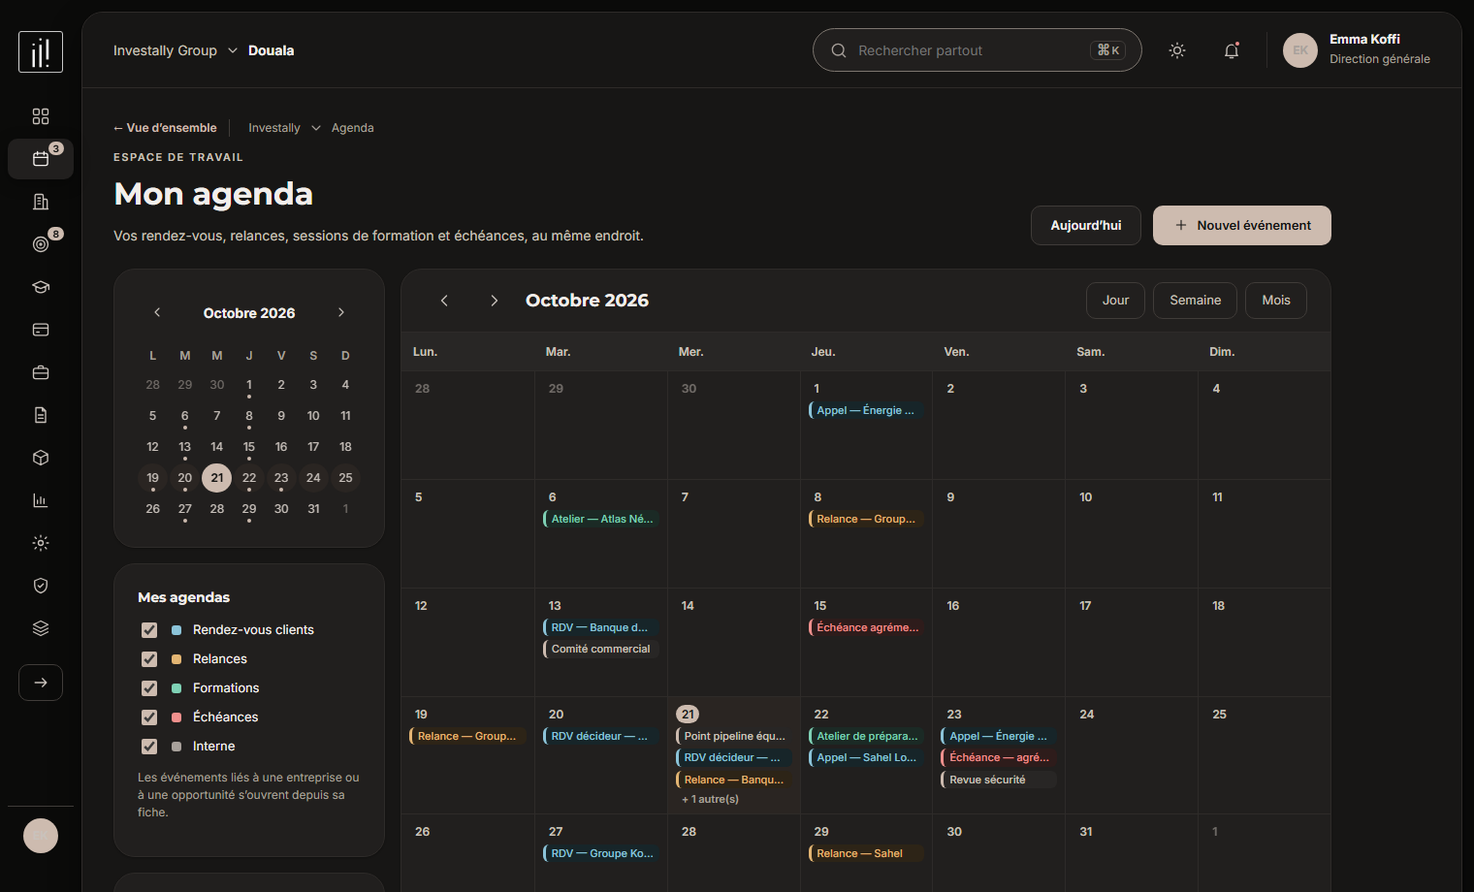
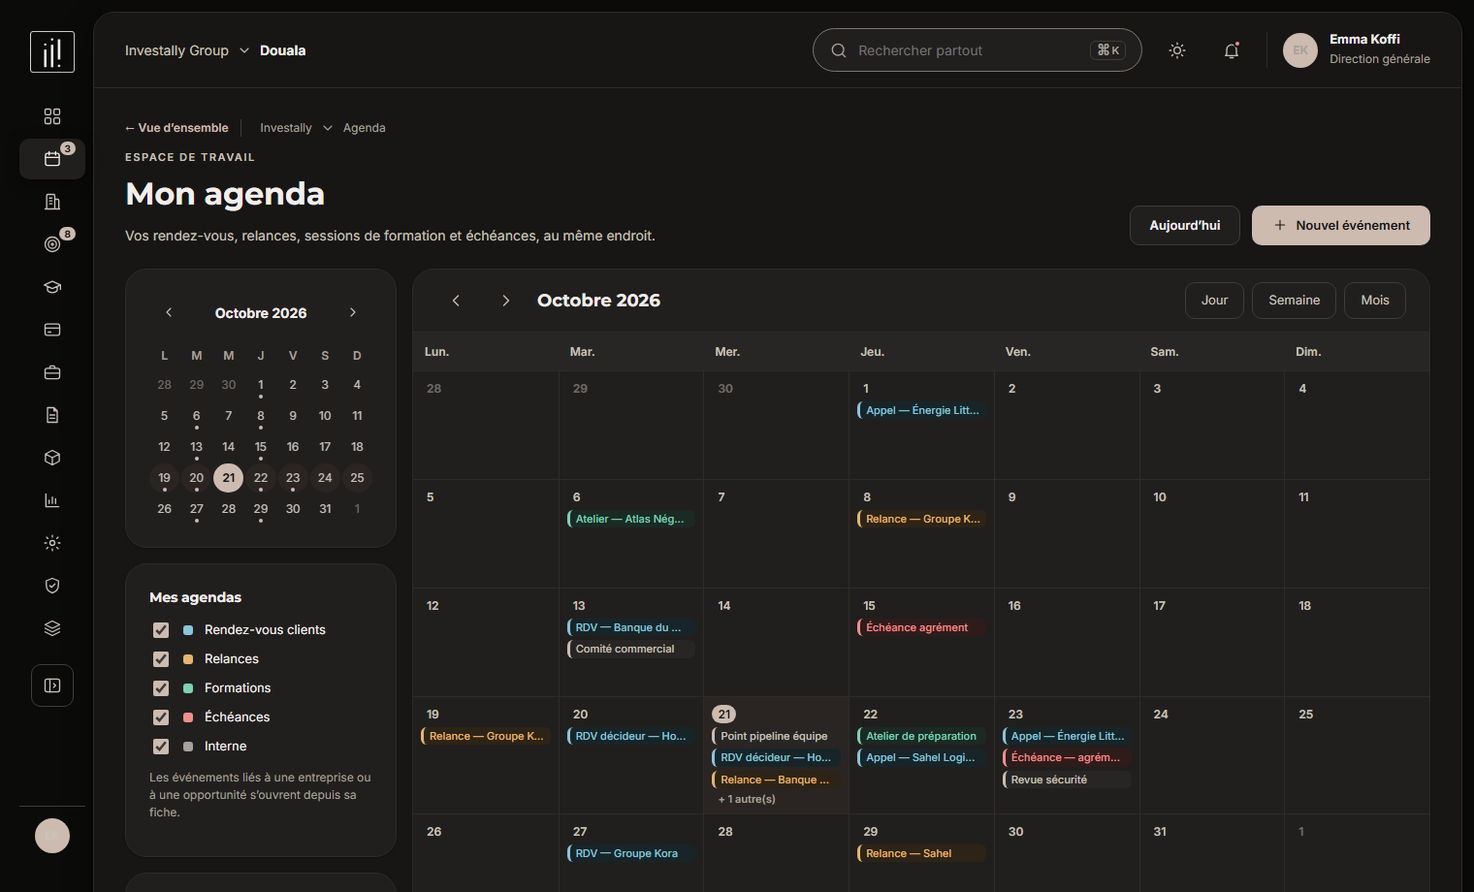
design v0.4.1: panneau principal centré (DEC-007 option B), bouton de dépliage en pictogramme
EXD-10, EXD-11, DDR-0007 ; captures regénérées ; version 0.4.1 en revue.

diff --git a/docs/design/prototype/prototype.css b/docs/design/prototype/prototype.css
@@ -16,7 +16,13 @@ button, input, select { font: inherit; color: inherit; }
 .icon.sm { width: 16px; height: 16px; }
 
 /* ---------- Coque applicative ---------- */
-.app { display: grid; grid-template-columns: 272px minmax(0, 1fr); min-height: 100vh; padding: 12px 12px 12px 0; background: var(--canvas); }
+.app { --nav-w: 272px; --panel-max: 1440px; display: grid; min-height: 100vh; padding: 12px; background: var(--canvas);
+  /* DEC-007 (option B) : le panneau principal est centré sur la fenêtre ; la navigation vit dans la marge de gauche.
+     Marge gauche >= largeur de la navigation, marge droite libre : si la fenêtre est trop étroite, la marge droite
+     tombe à 0 et le panneau se centre dans l'espace restant (repli automatique, sans requête média). */
+  grid-template-columns: minmax(var(--nav-w), 1fr) minmax(0, var(--panel-max)) minmax(0, 1fr); }
+.app > .sidebar { grid-column: 1; justify-self: start; width: var(--nav-w); }
+.app > .main { grid-column: 2; }
 .sidebar {
   background: transparent; padding: var(--s-4) var(--s-4) var(--s-4) var(--s-5); display: flex; flex-direction: column; gap: var(--s-2);
   position: sticky; top: 12px; height: calc(100vh - 24px); overflow-y: auto;
@@ -74,7 +80,7 @@ kbd { font: 600 0.6875rem var(--font-ui); border: 1px solid var(--line-strong); 
 .user-chip span { font-size: var(--text-xs); color: var(--muted); }
 .menu-btn { display: none; }
 
-.page { padding: var(--s-8); max-width: 1320px; }
+.page { padding: var(--s-8); }
 .crumbs { display: flex; gap: var(--s-2); color: var(--muted); font-size: var(--text-xs); align-items: center; }
 .eyebrow { font: 600 0.6875rem/1 var(--font-ui); letter-spacing: 0.14em; text-transform: uppercase; color: var(--ink-2); margin: var(--s-4) 0 var(--s-2); }
 .page-head { display: flex; align-items: flex-end; gap: var(--s-6); flex-wrap: wrap; margin-bottom: var(--s-6); }
@@ -251,6 +257,7 @@ body:not([data-view='login']) .auth { display: none; }
 }
 @media (max-width: 900px) {
   .app { grid-template-columns: minmax(0, 1fr); }
+  .app > .main { grid-column: 1; }
   .sidebar { position: fixed; inset: 0 auto 0 0; width: 280px; z-index: 20; transform: translateX(-100%); transition: transform var(--base) var(--ease); box-shadow: var(--shadow-3); }
   .sidebar.open { transform: none; }
   .menu-btn { display: grid; }
@@ -304,16 +311,16 @@ tbody tr { cursor: pointer; }
 /* ---------- DEC-002 : navigation B+ (hub complet, rail compact ailleurs, bouton Déplier) ---------- */
 .logo-mini { display: none; }
 .rail-toggle { display: none; }
-.rail-toggle { align-items: center; gap: var(--s-3); background: transparent; border: 1px solid var(--line-strong); border-radius: var(--radius-sm); color: var(--ink-2); padding: 8px var(--s-3); cursor: pointer; font-weight: 500; margin-top: var(--s-2); }
+.rail-toggle { align-items: center; justify-content: center; width: 44px; height: 44px; background: transparent; border: 1px solid var(--line-strong); border-radius: var(--radius-sm); color: var(--ink-2); padding: 0; cursor: pointer; margin-top: var(--s-2); }
+.rail-toggle .lbl { position: absolute; width: 1px; height: 1px; overflow: hidden; clip: rect(0 0 0 0); white-space: nowrap; }
 .rail-toggle:hover { background: var(--surface); color: var(--ink); }
 .rail-toggle[hidden] { display: none !important; }
 body[data-nav='full'] .rail-toggle:not([hidden]) { display: flex; }
 body[data-nav='rail'] .rail-toggle:not([hidden]) { display: flex; justify-content: center; }
-body[data-nav='full'] #railIcon { transform: rotate(180deg); }
 .crumbs .back { color: var(--brand-strong); text-decoration: none; font-weight: 600; margin-right: var(--s-3); padding-right: var(--s-3); border-right: 1px solid var(--line-strong); }
 .crumbs .back:hover { text-decoration: underline; }
 @media (min-width: 901px) {
-  body[data-nav='rail'] .app { grid-template-columns: 84px minmax(0, 1fr); }
+  body[data-nav='rail'] .app { --nav-w: 84px; }
   body[data-nav='rail'] .sidebar { padding: var(--s-4) var(--s-2); align-items: center; overflow: visible; }
   body[data-nav='rail'] .logo-full, body[data-nav='rail'] .nav-label { display: none; }
   body[data-nav='rail'] .logo-mini { display: block; }

diff --git a/docs/design/exigences/REGISTRE-EXD.html b/docs/design/exigences/REGISTRE-EXD.html
@@ -35,6 +35,8 @@ nav.top{font-size:.9rem;color:var(--muted);margin-bottom:1rem}
 <tr><td><strong>EXD-07</strong></td><td><strong>Module Stocks</strong> : articles, catégories, fournisseurs, entrées, sorties, inventaire, seuils d'alerte, historique, mouvements, consommations internes ; tableau de bord (stock total, ruptures, articles critiques, derniers mouvements)</td><td>📐</td><td><strong>Rattachement décidé : module autonome hébergé dans le monolithe du CRM, conçu pour être extrait</strong> (DEC-004, ADR-0007). Entrée « Stocks » dans le menu (à venir) ; 11 écrans listés dans l'analyse d'impact §4.2, à construire en dernier (DEC-005)</td></tr>
 <tr><td><strong>EXD-08</strong></td><td><strong>Module Reporting</strong> : rapports journaliers, hebdomadaires, mensuels, trimestriels, annuels ; <strong>gestion des incidents</strong> (déclaration, suivi, résolution, attribution) ; <strong>rapports des employés</strong> (activités, comptes rendus, suivi des actions, remontée de problèmes, suivi des performances)</td><td>📐</td><td>12 écrans (analyse d'impact §4.3), après S4 (<strong>incidents d'abord</strong>). <strong>Contrainte décidée (DEC-006)</strong> : le <strong>suivi des performances</strong> ne se construit <strong>qu'après avis juridique et RH</strong>, avec transparence pour l'employé. Entrée « Reporting » dans le menu (à venir)</td></tr>
 <tr><td><strong>EXD-09</strong></td><td><strong>Cohérence métier</strong> : toute modification reste cohérente avec Business Development, Training Management, Finance, RH, Fiscalité, Administration, Sécurité, Reporting</td><td>✅ (principe)</td><td>Architecture des modules mise à jour : analyse d'impact §7</td></tr>
+<tr><td><strong>EXD-10</strong></td><td><strong>Panneau principal centré à tout moment</strong> (demande du 2026-10-21)</td><td>✅</td><td>Option B (DEC-007, DDR-0007) : centré sur la fenêtre, panneau 1 440 px au plus, repli automatique en centrage dans l'espace restant sur fenêtre étroite. Mesuré à 2 200, 1 700 et 1 360 px</td></tr>
+<tr><td><strong>EXD-11</strong></td><td><strong>Bouton de dépliage = pictogramme de l'action, toujours actionnable</strong> (demande du 2026-10-21)</td><td>🟡</td><td>Pictogramme seul 44 px, nom accessible, état annoncé ; <strong>pictogramme provisoire, à confirmer</strong> ; reste masqué sur le hub (navigation complète) — à confirmer</td></tr>
 </tbody></table></div>
 <h2>Règles d'application</h2>
 <ol><li>Une nouvelle maquette ou une nouvelle version <strong>commence</strong> par relire ce registre.</li><li>Toute exigence appliquée est consignée ici avec sa date et sa preuve (capture, écran).</li><li>Si une exigence entre en conflit avec l'accessibilité, la sécurité ou l'architecture, <strong>je le signale avant d'appliquer</strong> (c'est le cas d'EXD-05 et de la partie « suivi des performances » d'EXD-08).</li><li>Une exigence ne disparaît jamais : si elle change, une ligne « remplacée par » est ajoutée.</li></ol>
@@ -42,4 +44,5 @@ nav.top{font-size:.9rem;color:var(--muted);margin-bottom:1rem}
 <div class="table-wrap"><table><thead><tr><th>Date</th><th>Événement</th></tr></thead><tbody>
 <tr><td>2026-10-21</td><td>Enregistrement d'EXD-01 à EXD-09. EXD-01 à EXD-04 appliquées au prototype ; EXD-05 à EXD-08 spécifiées dans l'analyse d'impact</td></tr>
 <tr><td>2026-10-21</td><td>Décisions recommandées appliquées (DEC-001 à 006) : EXD-05 ✅ (B+), EXD-04 hybride ✅, EXD-07 rattachement décidé, EXD-08 contrainte juridique actée ; prototype v0.4.0</td></tr>
+<tr><td>2026-10-21</td><td>EXD-10 et EXD-11 enregistrées. EXD-10 appliquée (option B, DEC-007) ; EXD-11 appliquée à titre provisoire (v0.4.1). <strong>Règle permanente</strong> : le document de design est mis à jour à chaque évolution</td></tr>
 </tbody></table></div></main></body></html>

diff --git a/docs/design/CHANGELOG-DESIGN.html b/docs/design/CHANGELOG-DESIGN.html
@@ -23,6 +23,8 @@ nav.top{font-size:.9rem;color:var(--muted);margin-bottom:1rem}
 @media print{main{max-width:none;padding:0}a{color:inherit}h2{break-after:avoid}table,pre{break-inside:avoid}}
 </style></head><body><main><nav class="top">Investally Business Platform — design · <a href="README.html">Mode d&#8217;emploi</a> · <a href="01-DESIGN-SYSTEM.html">Design system</a> · <a href="02-SPECIFICATIONS-FRONTEND.html">Spécifications frontend</a> · <a href="exigences/REGISTRE-EXD.html">Exigences</a> · <a href="04-ANALYSE-D-IMPACT.html">Analyse d&#8217;impact</a> · <a href="05-AIDE-A-LA-DECISION.html">Aide à la décision</a> · <a href="decisions/REGISTRE-DDR.html">Décisions (DDR)</a> · <a href="CHANGELOG-DESIGN.html">Journal</a> · <a href="prototype/index.html">Prototype</a></nav><h1>Journal des modifications du design</h1>
 <p>Format : une section par version, du plus récent au plus ancien. Chaque ligne renvoie à une exigence (EXD), une décision (DEC/DDR) ou une demande.</p>
+<h2>0.4.1 — 2026-10-21 — <em>En revue</em></h2>
+<ul><li><strong>EXD-10 / DEC-007 / DDR-0007</strong> : panneau principal <strong>centré sur la fenêtre</strong> (option B) ; repli automatique en centrage dans l'espace restant quand la fenêtre est étroite ; largeur du panneau 1 440 px au plus ; la largeur maximale du contenu (1 320 px) est supprimée.</li><li><strong>EXD-11</strong> : bouton de dépliage en <strong>pictogramme seul</strong> (44 px, nom accessible, info-bulle, état annoncé) ; pictogramme provisoire à confirmer.</li><li>Constat consigné : défilement horizontal entre 901 et 1 100 px avec la navigation dépliée, antérieur à cette version.</li></ul>
 <h2>0.4.0 — 2026-10-21 — <em>En revue</em></h2>
 <p><strong>Décisions appliquées</strong> (la direction produit a demandé d'appliquer les décisions recommandées) : DEC-001 à DEC-006.</p>
 <ul><li><strong>Navigation B+</strong> (DEC-002, DDR-0004, EXD-05) : le <strong>hub</strong> (Vue d'ensemble) affiche la navigation complète, la <strong>recherche globale</strong> (8 types, groupés, limités aux droits) et les <strong>tuiles de modules</strong> ; ailleurs, <strong>rail compact</strong> (icônes, info-bulles, bouton « Déplier » mémorisé) et lien « ← Vue d'ensemble » dans le fil d'Ariane ; tiroir sur mobile ; raccourci ⌘K.</li><li><strong>Opportunités hybrides</strong> (DEC-003, DDR-0005, EXD-04) : bandeau d'étapes cliquable (nombre et montant par étape), tri (prochaine action, montant, étape), cartes par lignes de 6, bascule « Par étape » ; <strong>la sélection survit au tri et au filtre</strong>.</li><li>Menu : ajout de <strong>Stocks</strong> et <strong>Reporting</strong> (modules à venir, DEC-004, EXD-07/08) ; symbole Investally isolé pour le rail.</li><li><strong>Gouvernance</strong> (DEC-001, DDR-0006) : dossiers <code>releases/</code>, <code>decisions/</code>, <code>exigences/</code>, <code>outils/</code>, README, VERSION, ce journal ; versions 0.1.0 à 0.3.0 <strong>reconstituées</strong>.</li><li><strong>Correctif</strong> : initialisation de la navigation (accès avant initialisation détecté à la recette).</li></ul>

diff --git a/docs/design/README.html b/docs/design/README.html
@@ -22,7 +22,7 @@ hr{border:0;border-top:1px solid var(--border);margin:2rem 0}
 nav.top{font-size:.9rem;color:var(--muted);margin-bottom:1rem}
 @media print{main{max-width:none;padding:0}a{color:inherit}h2{break-after:avoid}table,pre{break-inside:avoid}}
 </style></head><body><main><nav class="top">Investally Business Platform — design · <a href="README.html">Mode d&#8217;emploi</a> · <a href="01-DESIGN-SYSTEM.html">Design system</a> · <a href="02-SPECIFICATIONS-FRONTEND.html">Spécifications frontend</a> · <a href="exigences/REGISTRE-EXD.html">Exigences</a> · <a href="04-ANALYSE-D-IMPACT.html">Analyse d&#8217;impact</a> · <a href="05-AIDE-A-LA-DECISION.html">Aide à la décision</a> · <a href="decisions/REGISTRE-DDR.html">Décisions (DDR)</a> · <a href="CHANGELOG-DESIGN.html">Journal</a> · <a href="prototype/index.html">Prototype</a></nav><h1>Livrables UX/UI — mode d'emploi</h1>
-<p><strong>Version courante</strong> : voir <a href="VERSION"><code>VERSION</code></a> (<strong>0.4.0</strong>, statut <em>En revue</em>) · <strong>Gouvernance</strong> : décision DEC-001, option D (Git + releases sémantiques + journal et fiches de décision).</p>
+<p><strong>Version courante</strong> : voir <a href="VERSION"><code>VERSION</code></a> (<strong>0.4.1</strong>, statut <em>En revue</em>) · <strong>Gouvernance</strong> : décision DEC-001, option D (Git + releases sémantiques + journal et fiches de décision).</p>
 <h2>Où est quoi</h2>
 <div class="table-wrap"><table><thead><tr><th>Dossier / fichier</th><th>Rôle</th></tr></thead><tbody>
 <tr><td><code>01-DESIGN-SYSTEM.md</code>, <code>02-SPECIFICATIONS-FRONTEND.md</code>, <code>04-ANALYSE-D-IMPACT.md</code>, <code>05-AIDE-A-LA-DECISION.md</code></td><td>Documents <strong>vivants</strong> (versionnés par Git)</td></tr>
@@ -52,4 +52,5 @@ nav.top{font-size:.9rem;color:var(--muted);margin-bottom:1rem}
 <tr><td>0.2.0</td><td>Proposée (reconstituée)</td><td><code>1687304</code></td><td>+ Espace agenda, tous les écrans en clair et en sombre</td></tr>
 <tr><td>0.3.0</td><td>Proposée (reconstituée)</td><td><code>0b72ce4</code></td><td>+ Exigences EXD-01 à 04 (panneau, sélection persistante, Opportunités en cartes)</td></tr>
 <tr><td><strong>0.4.0</strong></td><td><strong>En revue</strong></td><td><em>(voir <code>releases/v0.4.0/MANIFEST.md</code>)</em></td><td>+ Décisions DEC-002 et DEC-003 (navigation B+, Opportunités hybrides), hub et recherche globale, gouvernance</td></tr>
+<tr><td><strong>0.4.1</strong></td><td><strong>En revue</strong></td><td><em>(voir <code>releases/v0.4.1/MANIFEST.md</code>)</em></td><td>+ Panneau principal centré (DEC-007, option B), bouton de dépliage en pictogramme (EXD-10, EXD-11)</td></tr>
 </tbody></table></div></main></body></html>

diff --git a/docs/design/prototype/index.html b/docs/design/prototype/index.html
@@ -37,6 +37,8 @@
   <symbol id="i-trend" viewBox="0 0 24 24"><path d="m3 17 6-6 4 4 8-8M15 7h6v6"/></symbol>
   <symbol id="i-box" viewBox="0 0 24 24"><path d="M3.5 7.5 12 3l8.5 4.5v9L12 21l-8.5-4.5v-9ZM3.5 7.5 12 12l8.5-4.5M12 12v9"/></symbol>
   <symbol id="i-chart" viewBox="0 0 24 24"><path d="M4 20V4M4 20h16M8 16v-4M12 16V8M16 16v-6"/></symbol>
+  <symbol id="i-panel-open" viewBox="0 0 24 24"><rect x="3" y="4" width="18" height="16" rx="2.5"/><path d="M9 4v16M13.5 9.5 16 12l-2.5 2.5"/></symbol>
+  <symbol id="i-panel-close" viewBox="0 0 24 24"><rect x="3" y="4" width="18" height="16" rx="2.5"/><path d="M9 4v16M16 9.5 13.5 12l2.5 2.5"/></symbol>
   <symbol id="i-menu" viewBox="0 0 24 24"><path d="M4 7h16M4 12h16M4 17h16"/></symbol>
   <symbol id="i-lock" viewBox="0 0 24 24"><rect x="5" y="10.5" width="14" height="10" rx="2.5"/><path d="M8 10.5V8a4 4 0 0 1 8 0v2.5"/></symbol>
   <symbol id="i-cal" viewBox="0 0 24 24"><rect x="3.5" y="5" width="17" height="15" rx="2.5"/><path d="M3.5 10h17M8 3v4M16 3v4"/></symbol>
@@ -92,7 +94,7 @@
       <a href="#security" data-nav="security" data-label="Sécurité"><svg class="icon"><use href="#i-shield"/></svg><span class="lbl">Sécurité</span></a>
       <a href="#components" data-nav="components" data-label="Composants"><svg class="icon"><use href="#i-cols"/></svg><span class="lbl">Composants</span></a>
     </nav>
-    <button type="button" class="rail-toggle" id="railToggle" aria-expanded="false" data-label="Déplier la navigation"><svg class="icon" id="railIcon"><use href="#i-arrow"/></svg><span class="lbl" id="railLabel">Déplier</span></button>
+    <button type="button" class="rail-toggle" id="railToggle" aria-expanded="false" data-label="Déplier la navigation"><svg class="icon" id="railIcon" aria-hidden="true"><use id="railUse" href="#i-panel-open"/></svg><span class="lbl" id="railLabel">Déplier</span></button>
     <div class="me"><span class="avatar">EK</span><div class="lbl"><strong>Emma Koffi</strong><span>Administratrice</span></div></div>
   </aside>
 

diff --git a/docs/design/decisions/REGISTRE-DDR.html b/docs/design/decisions/REGISTRE-DDR.html
@@ -30,4 +30,5 @@ nav.top{font-size:.9rem;color:var(--muted);margin-bottom:1rem}
 <tr><td><a href="DDR-0004-navigation-b-plus.html">DDR-0004</a></td><td>Navigation B+ (hub, rail compact, bouton Déplier)</td><td>Acceptée</td><td>0.4.0</td><td>EXD-05, DEC-002</td></tr>
 <tr><td><a href="DDR-0005-opportunites-hybrides.html">DDR-0005</a></td><td>Opportunités hybrides</td><td>Acceptée</td><td>0.4.0</td><td>EXD-04, DEC-003</td></tr>
 <tr><td><a href="DDR-0006-versionnement-des-livrables.html">DDR-0006</a></td><td>Versionnement des livrables design</td><td>Acceptée</td><td>0.4.0</td><td>DEC-001</td></tr>
+<tr><td><a href="DDR-0007-panneau-centre-et-bouton-de-depliage.html">DDR-0007</a></td><td>Panneau principal centré (option B) et bouton de dépliage en pictogramme</td><td>Acceptée (pictogramme à confirmer)</td><td>0.4.1</td><td>EXD-10, EXD-11, DEC-007</td></tr>
 </tbody></table></div></main></body></html>

diff --git a/docs/design/decisions/DDR-0004-navigation-b-plus.html b/docs/design/decisions/DDR-0004-navigation-b-plus.html
@@ -37,4 +37,6 @@ nav.top{font-size:.9rem;color:var(--muted);margin-bottom:1rem}
 <h2>Motif</h2>
 <p>Meilleure note de la grille (122/135) ; respect d'EXD-05 par défaut ; plusieurs moyens de navigation (WCAG 2.4.5).</p>
 <h2>Conséquences</h2>
-<p>Deux états de la coque à maintenir ; essai avec 3 utilisateurs à prévoir ; si le rail est mal compris, bascule vers C.</p></main></body></html>
+<p>Deux états de la coque à maintenir ; essai avec 3 utilisateurs à prévoir ; si le rail est mal compris, bascule vers C.</p>
+<h2>Mise à jour du 2026-10-21 (v0.4.1)</h2>
+<p>Le bouton « Déplier » devient un <strong>pictogramme seul</strong>, et le panneau principal est centré : voir <a href="DDR-0007-panneau-centre-et-bouton-de-depliage.html">DDR-0007</a>. Le principe (hub complet, rail ailleurs, préférence mémorisée) est inchangé.</p></main></body></html>

diff --git a/docs/design/prototype/prototype.js b/docs/design/prototype/prototype.js
@@ -209,6 +209,8 @@ function setNavMode(view) {
     railToggle.setAttribute('aria-expanded', String(full));
     const label = full ? 'Replier' : 'Déplier';
     document.getElementById('railLabel').textContent = label;
+    document.getElementById('railUse').setAttribute('href', full ? '#i-panel-close' : '#i-panel-open');
+    railToggle.title = full ? 'Replier la navigation' : 'Déplier la navigation';
     railToggle.dataset.label = full ? 'Replier la navigation' : 'Déplier la navigation';
   }
   // Fil d'Ariane : retour à la vue d'ensemble sur tous les écrans sauf le hub

diff --git a/docs/design/exigences/REGISTRE-EXD.md b/docs/design/exigences/REGISTRE-EXD.md
@@ -19,6 +19,8 @@ Légende : ✅ appliqué au prototype · 🟡 appliqué en partie · 📐 spéci
 | **EXD-07** | **Module Stocks** : articles, catégories, fournisseurs, entrées, sorties, inventaire, seuils d'alerte, historique, mouvements, consommations internes ; tableau de bord (stock total, ruptures, articles critiques, derniers mouvements) | 📐 | **Rattachement décidé : module autonome hébergé dans le monolithe du CRM, conçu pour être extrait** (DEC-004, ADR-0007). Entrée « Stocks » dans le menu (à venir) ; 11 écrans listés dans l'analyse d'impact §4.2, à construire en dernier (DEC-005) |
 | **EXD-08** | **Module Reporting** : rapports journaliers, hebdomadaires, mensuels, trimestriels, annuels ; **gestion des incidents** (déclaration, suivi, résolution, attribution) ; **rapports des employés** (activités, comptes rendus, suivi des actions, remontée de problèmes, suivi des performances) | 📐 | 12 écrans (analyse d'impact §4.3), après S4 (**incidents d'abord**). **Contrainte décidée (DEC-006)** : le **suivi des performances** ne se construit **qu'après avis juridique et RH**, avec transparence pour l'employé. Entrée « Reporting » dans le menu (à venir) |
 | **EXD-09** | **Cohérence métier** : toute modification reste cohérente avec Business Development, Training Management, Finance, RH, Fiscalité, Administration, Sécurité, Reporting | ✅ (principe) | Architecture des modules mise à jour : analyse d'impact §7 |
+| **EXD-10** | **Panneau principal centré à tout moment** (demande du 2026-10-21) | ✅ | Option B (DEC-007, DDR-0007) : centré sur la fenêtre, panneau 1 440 px au plus, repli automatique en centrage dans l'espace restant sur fenêtre étroite. Mesuré à 2 200, 1 700 et 1 360 px |
+| **EXD-11** | **Bouton de dépliage = pictogramme de l'action, toujours actionnable** (demande du 2026-10-21) | 🟡 | Pictogramme seul 44 px, nom accessible, état annoncé ; **pictogramme provisoire, à confirmer** ; reste masqué sur le hub (navigation complète) — à confirmer |
 
 ## Règles d'application
 1. Une nouvelle maquette ou une nouvelle version **commence** par relire ce registre.
@@ -31,3 +33,4 @@ Légende : ✅ appliqué au prototype · 🟡 appliqué en partie · 📐 spéci
 |---|---|
 | 2026-10-21 | Enregistrement d'EXD-01 à EXD-09. EXD-01 à EXD-04 appliquées au prototype ; EXD-05 à EXD-08 spécifiées dans l'analyse d'impact |
 | 2026-10-21 | Décisions recommandées appliquées (DEC-001 à 006) : EXD-05 ✅ (B+), EXD-04 hybride ✅, EXD-07 rattachement décidé, EXD-08 contrainte juridique actée ; prototype v0.4.0 |
+| 2026-10-21 | EXD-10 et EXD-11 enregistrées. EXD-10 appliquée (option B, DEC-007) ; EXD-11 appliquée à titre provisoire (v0.4.1). **Règle permanente** : le document de design est mis à jour à chaque évolution |

diff --git a/docs/design/CHANGELOG-DESIGN.md b/docs/design/CHANGELOG-DESIGN.md
@@ -2,6 +2,11 @@
 
 Format : une section par version, du plus récent au plus ancien. Chaque ligne renvoie à une exigence (EXD), une décision (DEC/DDR) ou une demande.
 
+## 0.4.1 — 2026-10-21 — *En revue*
+- **EXD-10 / DEC-007 / DDR-0007** : panneau principal **centré sur la fenêtre** (option B) ; repli automatique en centrage dans l'espace restant quand la fenêtre est étroite ; largeur du panneau 1 440 px au plus ; la largeur maximale du contenu (1 320 px) est supprimée.
+- **EXD-11** : bouton de dépliage en **pictogramme seul** (44 px, nom accessible, info-bulle, état annoncé) ; pictogramme provisoire à confirmer.
+- Constat consigné : défilement horizontal entre 901 et 1 100 px avec la navigation dépliée, antérieur à cette version.
+
 ## 0.4.0 — 2026-10-21 — *En revue*
 **Décisions appliquées** (la direction produit a demandé d'appliquer les décisions recommandées) : DEC-001 à DEC-006.
 - **Navigation B+** (DEC-002, DDR-0004, EXD-05) : le **hub** (Vue d'ensemble) affiche la navigation complète, la **recherche globale** (8 types, groupés, limités aux droits) et les **tuiles de modules** ; ailleurs, **rail compact** (icônes, info-bulles, bouton « Déplier » mémorisé) et lien « ← Vue d'ensemble » dans le fil d'Ariane ; tiroir sur mobile ; raccourci ⌘K.

diff --git a/docs/design/README.md b/docs/design/README.md
@@ -1,6 +1,6 @@
 # Livrables UX/UI — mode d'emploi
 
-**Version courante** : voir [`VERSION`](VERSION) (**0.4.0**, statut *En revue*) · **Gouvernance** : décision DEC-001, option D (Git + releases sémantiques + journal et fiches de décision).
+**Version courante** : voir [`VERSION`](VERSION) (**0.4.1**, statut *En revue*) · **Gouvernance** : décision DEC-001, option D (Git + releases sémantiques + journal et fiches de décision).
 
 ## Où est quoi
 | Dossier / fichier | Rôle |
@@ -41,3 +41,4 @@ Cycle d'une version : **Proposée → En revue → Validée (par la direction pr
 | 0.2.0 | Proposée (reconstituée) | `1687304` | + Espace agenda, tous les écrans en clair et en sombre |
 | 0.3.0 | Proposée (reconstituée) | `0b72ce4` | + Exigences EXD-01 à 04 (panneau, sélection persistante, Opportunités en cartes) |
 | **0.4.0** | **En revue** | *(voir `releases/v0.4.0/MANIFEST.md`)* | + Décisions DEC-002 et DEC-003 (navigation B+, Opportunités hybrides), hub et recherche globale, gouvernance |
+| **0.4.1** | **En revue** | *(voir `releases/v0.4.1/MANIFEST.md`)* | + Panneau principal centré (DEC-007, option B), bouton de dépliage en pictogramme (EXD-10, EXD-11) |

diff --git a/docs/design/decisions/REGISTRE-DDR.md b/docs/design/decisions/REGISTRE-DDR.md
@@ -11,3 +11,4 @@ Les arbitrages structurants suivent la [méthode d'arbitrage](../../METHODE-D-AR
 | [DDR-0004](DDR-0004-navigation-b-plus.md) | Navigation B+ (hub, rail compact, bouton Déplier) | Acceptée | 0.4.0 | EXD-05, DEC-002 |
 | [DDR-0005](DDR-0005-opportunites-hybrides.md) | Opportunités hybrides | Acceptée | 0.4.0 | EXD-04, DEC-003 |
 | [DDR-0006](DDR-0006-versionnement-des-livrables.md) | Versionnement des livrables design | Acceptée | 0.4.0 | DEC-001 |
+| [DDR-0007](DDR-0007-panneau-centre-et-bouton-de-depliage.md) | Panneau principal centré (option B) et bouton de dépliage en pictogramme | Acceptée (pictogramme à confirmer) | 0.4.1 | EXD-10, EXD-11, DEC-007 |
